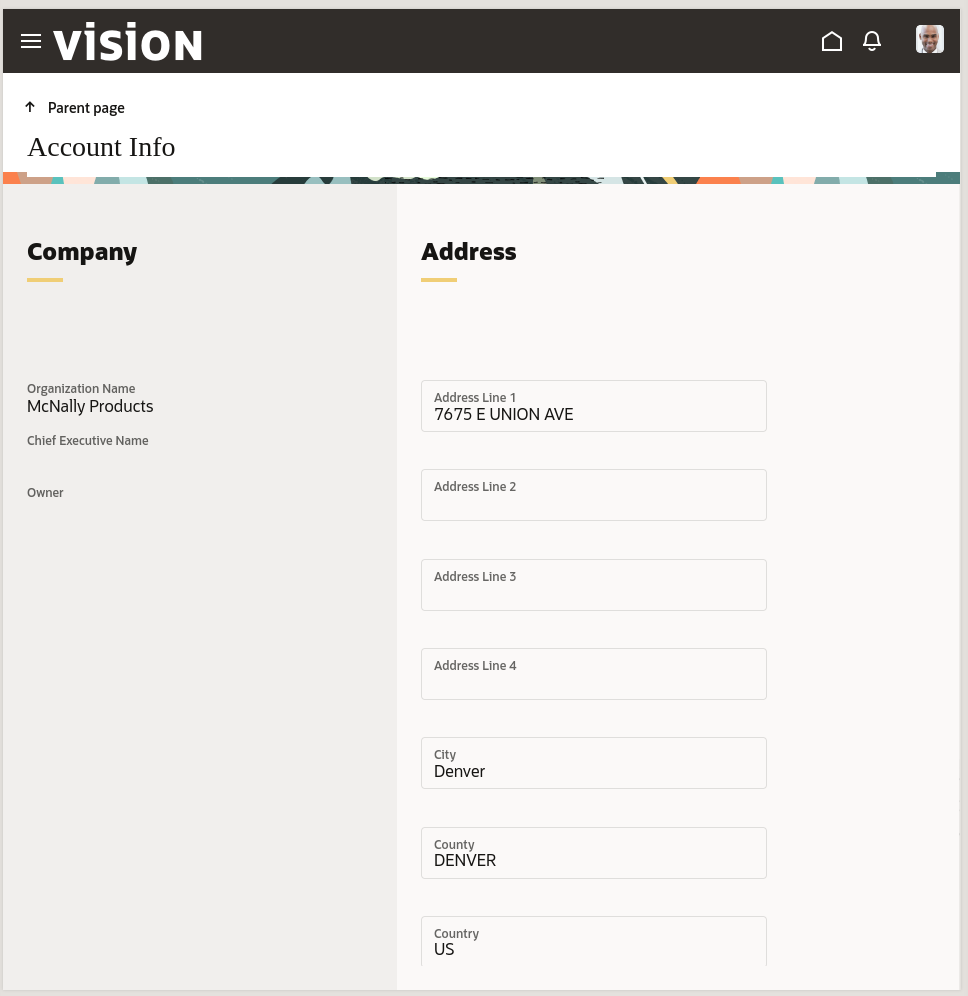
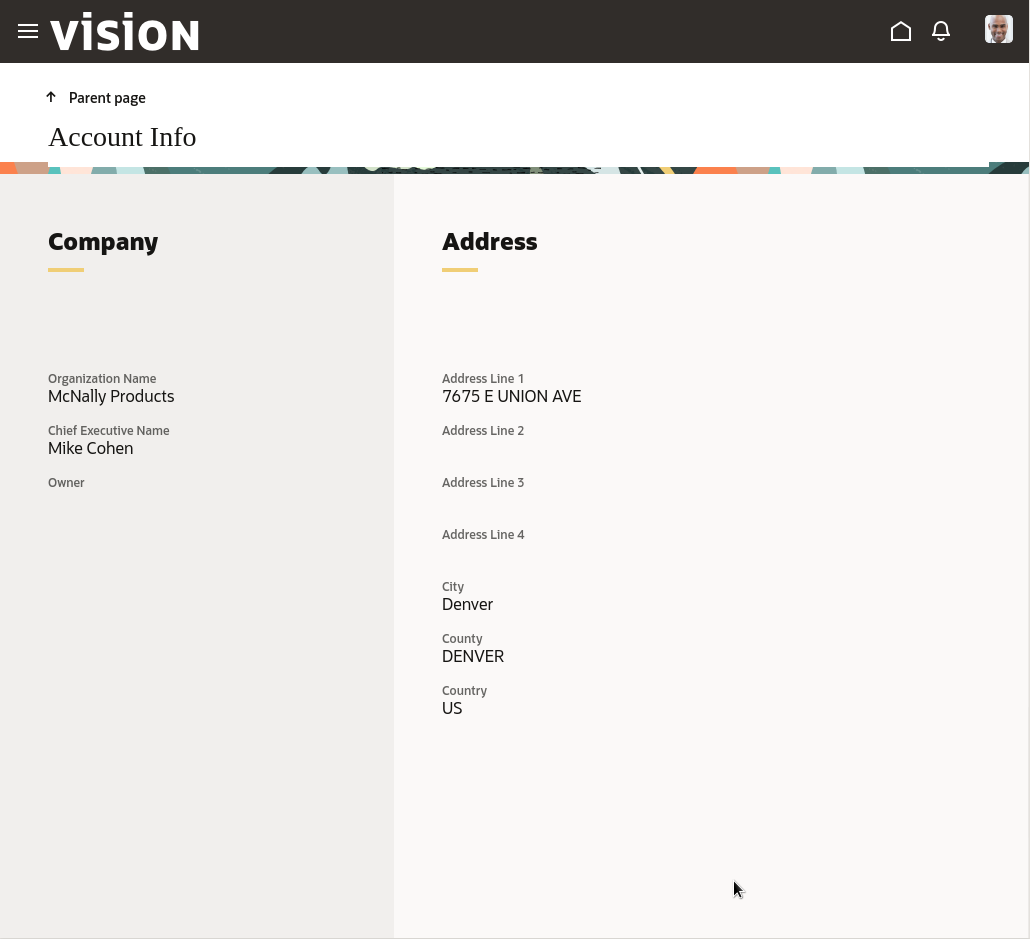
Set details form to readonly

diff --git a/redwood-extensions/detailspage/detailspage.md b/redwood-extensions/detailspage/detailspage.md
@@ -100,13 +100,16 @@ Notice the template includes a button to take you back to the parent page.  You 
 2. Drag it to the second **Summarizing Foldout Panel** and drop it onto the first **div**:
 		![Second drag](images/dragform2.png)
 
-3. In the Structure pane, select the fourth field in the Form Layout, and **Shift-select** all the other fields after that. Drag all of them into the new **Form Layout** you created in the second **Summarizing Foldout Panel**:
+3. With the form item selected, open the General tab in the properties panel and check the **Readonly** box:
+	  ![drag fields](images/readonly.png)
+
+4. In the Structure pane, select the fourth field in the Form Layout, and **Shift-select** all the other fields after that. Drag all of them into the new **Form Layout** you created in the second **Summarizing Foldout Panel**:
 	  ![drag fields](images/dragfield2.png)
 
-4. Your app should now look something like this.
+5. Your app should now look something like this.
 	  ![label property](images/finishdetails.png)
 
-5. Switch to **Live** mode and use the **Parent page** button to switch back to the **welcome** page, then click **Preview** in the header to see your app live.
+6. Switch to **Live** mode and use the **Parent page** button to switch back to the **welcome** page, then click **Preview** in the header to see your app live.
 
 You may now close the preview browser tab and **proceed to the next lab**.
 
